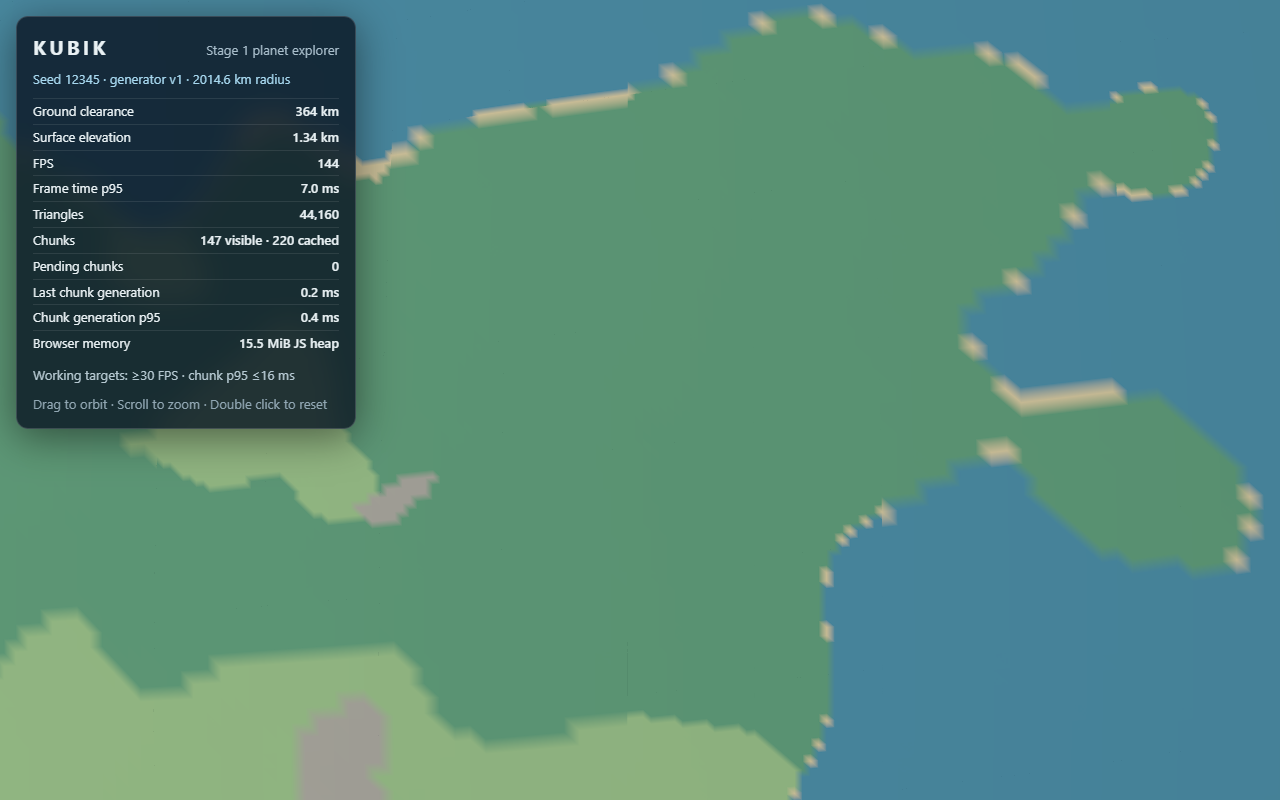
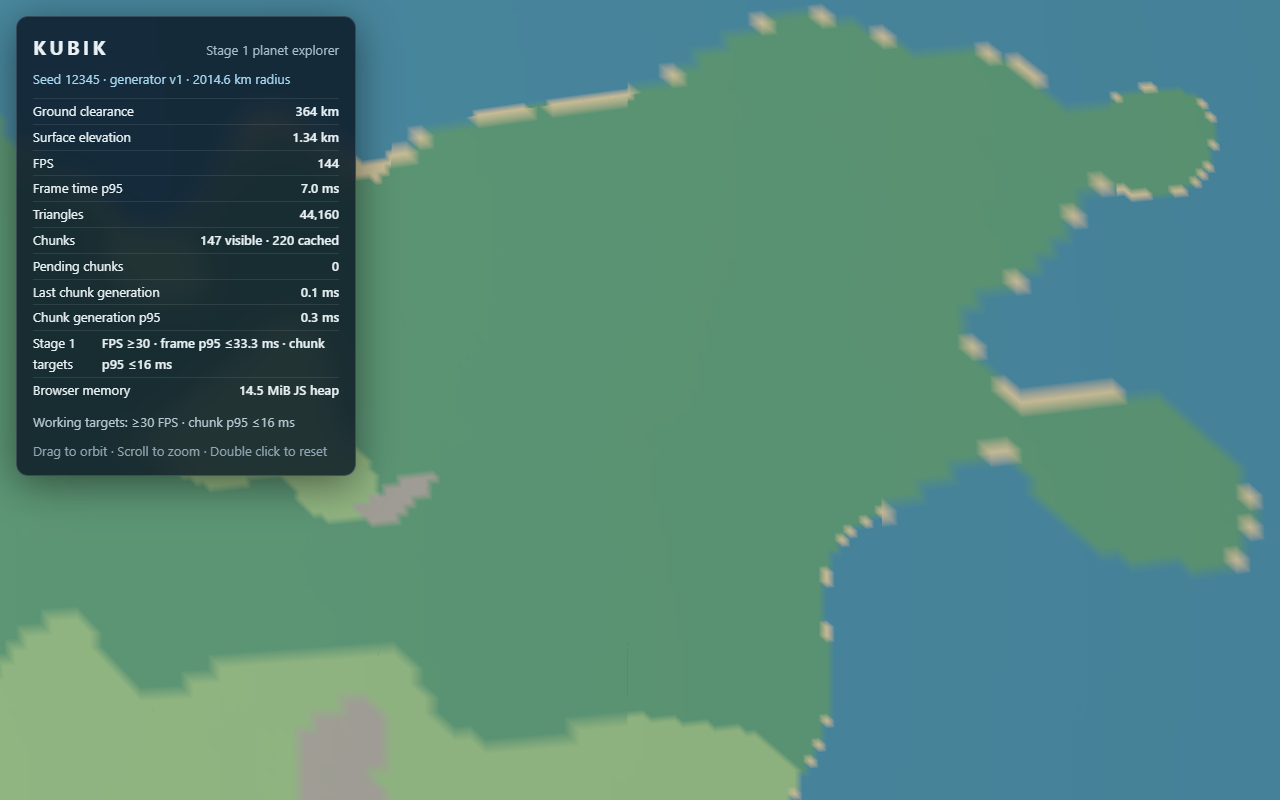
Show Stage 1 performance targets alongside measurements

Changed region(s): [[0.0, 0.4062, 0.2812, 0.625]]

diff --git a/apps/client/src/main.ts b/apps/client/src/main.ts
@@ -150,6 +150,7 @@ async function start(): Promise<void> {
         <div><span>Pending chunks</span><b>${values.queued}</b></div>
         <div><span>Last chunk generation</span><b>${values.generationMs.toFixed(1)} ms</b></div>
         <div><span>Chunk generation p95</span><b>${generationP95 === null ? 'unavailable' : `${generationP95.toFixed(1)} ms`}</b></div>
+        <div><span>Stage 1 targets</span><b>FPS ≥30 · frame p95 ≤33.3 ms · chunk p95 ≤16 ms</b></div>
         <div><span>Browser memory</span><b>${memoryText}</b></div>`;
       lastMetrics = now;
     }
